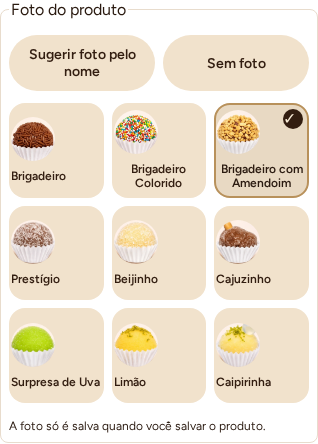
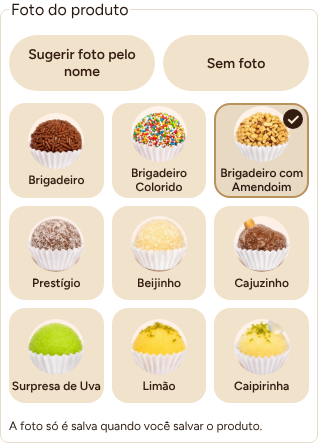
T9: grade de fotos do produto centralizada como na prévia aprovada
O botão variante card não tem rótulo interno; o alinhamento passa a
ser no próprio botão. Capturas da foto atualizadas.

Claude-Session: https://claude.ai/code/session_0141B4PnNJ4Mzj7mcUbY7h2t

diff --git a/src/theme.css b/src/theme.css
@@ -1301,6 +1301,15 @@ textarea::placeholder {
   box-shadow: none;
   background: var(--az-tonal);
 }
+/* O variante card não tem rótulo interno: centraliza no próprio botão. */
+.product-photo-picker .photo-choice.az-button--card {
+  display: flex;
+  flex-direction: column;
+  align-items: center;
+  justify-content: center;
+  gap: var(--az-space-1);
+  text-align: center;
+}
 .photo-choice .az-button-label {
   display: flex;
   flex-direction: column;
@@ -1310,12 +1319,13 @@ textarea::placeholder {
   width: 100%;
 }
 .photo-choice img {
-  width: 44px;
-  height: 44px;
+  width: 56px;
+  height: 56px;
   border-radius: 50%;
   object-fit: cover;
 }
 .photo-choice .photo-name {
+  width: 100%;
   white-space: normal;
   text-align: center;
   font-size: 12px;
